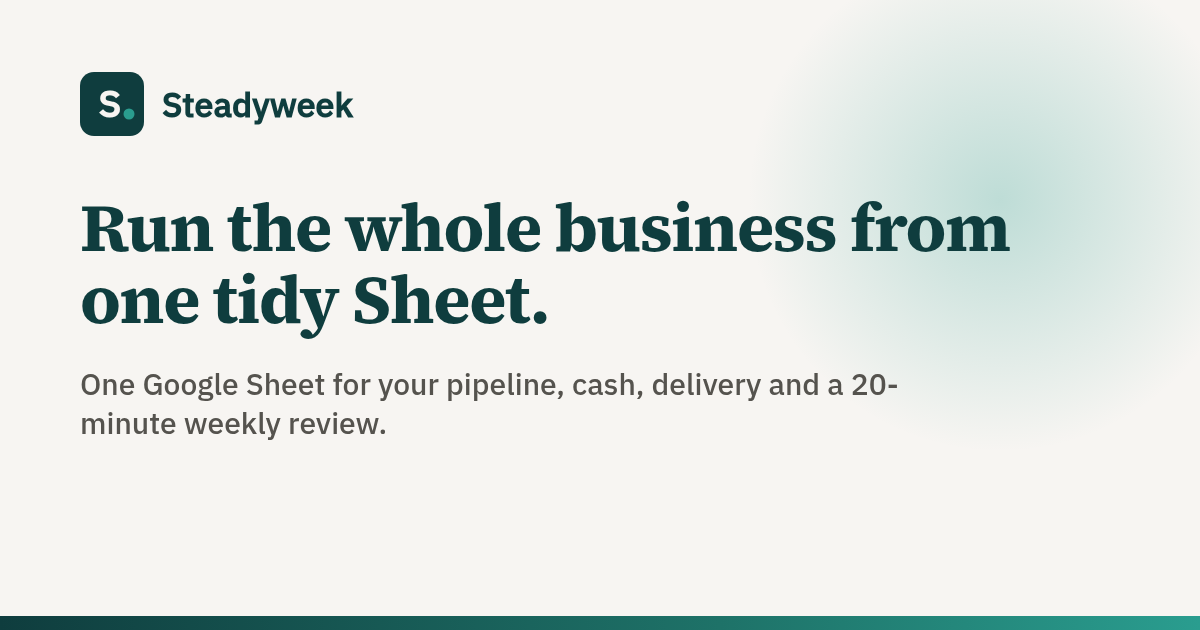
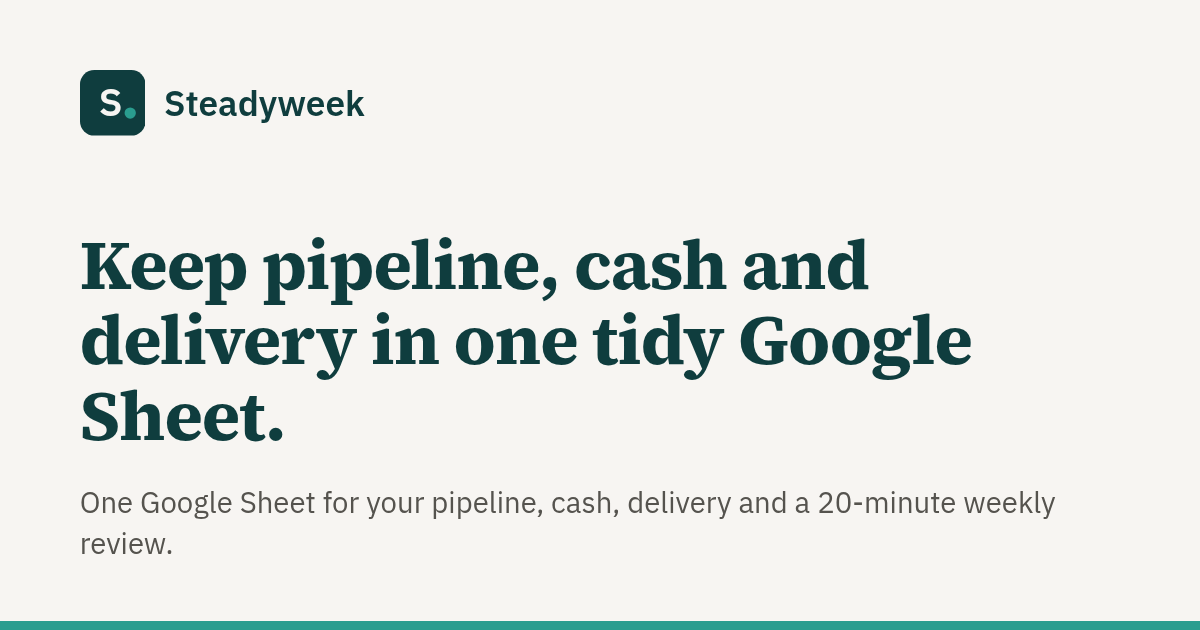
Publish site 2026-10-14 16:49 BST

diff --git a/index.html b/index.html
@@ -3,15 +3,16 @@
 <head>
   <meta charset="utf-8">
   <meta name="viewport" content="width=device-width, initial-scale=1">
-  <meta http-equiv="Content-Security-Policy" content="default-src 'self'; img-src 'self' data:; style-src 'self'; script-src 'self'; font-src 'self'; form-action 'self' mailto:; base-uri 'self'; frame-ancestors 'none'">
+  <meta http-equiv="Content-Security-Policy" content="default-src 'self'; img-src 'self' data:; style-src 'self'; script-src 'self'; font-src 'self'; connect-src 'self' https://formsubmit.co; form-action 'self'; base-uri 'self'; object-src 'none'">
   <meta name="referrer" content="strict-origin-when-cross-origin">
-  <title>Steadyweek — run your small business from one Google Sheet</title>
+  <title>Steadyweek — pipeline, cash and delivery in one Google Sheet</title>
   <meta name="description" content="One Google Sheet for your pipeline, cash, delivery and a 20-minute weekly review. Built for UK micro-businesses. No new software, no lock-in.">
   <meta name="theme-color" content="#0F3D3E">
   <meta property="og:type" content="website">
-  <meta property="og:title" content="Steadyweek — run your small business from one Google Sheet">
+  <meta property="og:title" content="Steadyweek — pipeline, cash and delivery in one Google Sheet">
   <meta property="og:description" content="One Google Sheet for your pipeline, cash, delivery and a 20-minute weekly review. Built for UK micro-businesses. No new software, no lock-in.">
   <meta property="og:image" content="https://evanturner557-del.github.io/steadyweek/assets/og.png">
+  <meta property="og:url" content="https://evanturner557-del.github.io/steadyweek/">
   <meta name="twitter:card" content="summary_large_image">
   <link rel="canonical" href="https://evanturner557-del.github.io/steadyweek/">
   <link rel="icon" href="assets/favicon.svg" type="image/svg+xml">
@@ -56,8 +57,8 @@
     <div class="container hero__grid">
       <div>
         <span class="eyebrow">For UK founders who live in spreadsheets</span>
-        <h1>Run your whole business from one tidy Google Sheet.</h1>
-        <p class="lede">Steadyweek is a ready-made <strong>Google Sheets</strong> workbook for pipeline, cash and delivery — plus a <strong>20-minute weekly review</strong> that tells you what needs you. From <strong>£49</strong>, yours to keep.</p>
+        <h1>Keep pipeline, cash and delivery in one tidy Google Sheet.</h1>
+        <p class="lede">Steadyweek is a ready-made <strong>Google Sheets</strong> workbook with a <strong>20-minute weekly review</strong> that tells you what needs you. From <strong>£49</strong>, yours to keep.</p>
         <div class="btn-row">
           <a class="btn btn--primary" href="#pricing" data-cta="hero">See the plans</a>
           <a class="btn btn--ghost" href="#how" data-cta="hero-secondary">What&#x27;s inside</a>
@@ -93,7 +94,7 @@
           <p class="price"><b>£49</b><span>one-off</span></p><ul class="checks"><li><svg aria-hidden="true"><use href="#i-check"/></svg>7-tab Steadyweek workbook (.xlsx)</li><li><svg aria-hidden="true"><use href="#i-check"/></svg>QuickStart guide (PDF)</li><li><svg aria-hidden="true"><use href="#i-check"/></svg>Yours to keep</li></ul><div class="cta-wrap"><a class="btn btn--primary btn--block" href="#contact" data-cta="enquire" data-plan="template">Ask about the Template</a><p class="sub">No payment taken yet.</p></div></article><article class="tier"><h3>Template + setup</h3><p class="tier__for">We set it up with your real data on a call.</p>
           <p class="price"><b>£149</b><span>one-off</span></p><ul class="checks"><li><svg aria-hidden="true"><use href="#i-check"/></svg>Everything in Template</li><li><svg aria-hidden="true"><use href="#i-check"/></svg>60-minute setup call</li><li><svg aria-hidden="true"><use href="#i-check"/></svg>Your pipeline and costs loaded in</li></ul><div class="cta-wrap"><a class="btn btn--ghost btn--block" href="#contact" data-cta="enquire" data-plan="setup">Ask about setup</a></div></article><article class="tier"><h3>Monthly check-in</h3><p class="tier__for">A light monthly review to keep the habit.</p>
           <p class="price"><b>£39</b><span>/ month</span></p><ul class="checks"><li><svg aria-hidden="true"><use href="#i-check"/></svg>30-minute monthly review</li><li><svg aria-hidden="true"><use href="#i-check"/></svg>Template tweaks as you grow</li><li><svg aria-hidden="true"><use href="#i-check"/></svg>Cancel any time</li></ul><div class="cta-wrap"><a class="btn btn--ghost btn--block" href="#contact" data-cta="enquire" data-plan="checkin">Ask about check-ins</a></div></article></div>
-      <div class="guarantee"><div class="icon"><svg aria-hidden="true"><use href="#i-refund"/></svg></div><p><strong>30-day refund promise.</strong> If you decide within 30 days of buying the Template or Template + setup that it isn’t for you, email us and we’ll refund what you paid. No reason needed.</p><a class="btn btn--ghost btn--sm" href="terms.html#refunds">Refund terms</a></div>
+      <div class="guarantee"><div class="icon"><svg aria-hidden="true"><use href="#i-refund"/></svg></div><p><strong>30-day refund promise.</strong> If you decide within 30 days of buying the Template or Template + setup that it isn’t for you, you can have a full refund of what you paid. No reason needed. To ask, email steadyweek@agentmail.to.</p><a class="btn btn--ghost btn--sm" href="terms.html#refunds">Refund terms</a></div>
       <p class="fineprint">Steadyweek is a planning tool, not accounting or tax software, and nothing in it is financial advice.</p>
     </div>
   </section>
@@ -101,18 +102,18 @@
     <div class="container"><div class="note-card"><div><span class="eyebrow">A straight answer</span><blockquote>“We&#x27;re new. There are no customer stories yet, and we won&#x27;t invent any. Here&#x27;s exactly what you get.”</blockquote></div><ul class="promise-list"><li><svg aria-hidden="true"><use href="#i-check"/></svg><span>Your data stays in your own Google Drive.</span></li><li><svg aria-hidden="true"><use href="#i-check"/></svg><span>No subscriptions required — the template is yours.</span></li><li><svg aria-hidden="true"><use href="#i-check"/></svg><span>Planning tool, not financial advice or accounting.</span></li><li><svg aria-hidden="true"><use href="#i-check"/></svg><span>Plain spreadsheet formulas you can read and change.</span></li></ul></div></div>
   </section>
   <section class="section section--tint" id="faq">
-    <div class="container"><div class="section-head"><span class="eyebrow">FAQ</span><h2>Common questions</h2></div><div class="faq"><details><summary>Do I need any paid software?</summary><p>No. Steadyweek is built for Google Sheets, which is free with a Google account. The file is a standard .xlsx, but we haven’t tested it in Microsoft Excel yet, so we don’t promise that it works there.</p></details><details><summary>Can you see my data?</summary><p>No. You keep the template on your own computer or in your own Google Drive. We never have access unless you share it with us for a setup call.</p></details><details><summary>Is this accounting software?</summary><p>No. It&#x27;s a planning and weekly-review tool. Keep your bookkeeping in your accounting software and your accountant in the loop.</p></details><details><summary>What if I get stuck?</summary><p>The QuickStart guide covers the basics, and the setup tier includes a live call. If a file doesn’t work as described, email us and we’ll put it right.</p></details><details><summary>Can my team use it?</summary><p>Yes. Share the Sheet with whoever needs it, using Google&#x27;s normal sharing settings.</p></details><details><summary>When can I buy it?</summary><p>We’re finishing the first version. Ordering opens at launch, and this page will be updated as soon as it does. No payment is taken today.</p></details></div></div>
+    <div class="container"><div class="section-head"><span class="eyebrow">FAQ</span><h2>Common questions</h2></div><div class="faq"><details><summary>Do I need any paid software?</summary><p>No. Steadyweek is built for Google Sheets, which is free with a Google account. The file is a standard .xlsx, but we haven’t tested it in Microsoft Excel yet, so we don’t promise that it works there.</p></details><details><summary>Can you see my data?</summary><p>No. You keep the template on your own computer or in your own Google Drive. We never have access unless you share it with us for a setup call.</p></details><details><summary>Is this accounting software?</summary><p>No. It&#x27;s a planning and weekly-review tool. Keep your bookkeeping in your accounting software and your accountant in the loop.</p></details><details><summary>What if I get stuck?</summary><p>The QuickStart guide covers the basics, and the setup tier includes a live call. If a file doesn’t work as described, you’re entitled to have it fixed or replaced, or to a refund, as set out in our terms.</p></details><details><summary>Can my team use it?</summary><p>Yes. Share the Sheet with whoever needs it, using Google&#x27;s normal sharing settings.</p></details><details><summary>When can I buy it?</summary><p>We’re finishing the first version. Ordering opens at launch, and this page will be updated as soon as it does. No payment is taken today.</p></details></div></div>
   </section>
 <section class="section" id="contact">
     <div class="container contact-grid">
       <div>
         <span class="eyebrow">Contact</span>
         <h2 class="x-s8">Questions? Email us.</h2>
-        <p class="x-s9">Ask us anything about Steadyweek and we&#x27;ll reply by email from steadyweek@agentmail.to.</p>
+        <p class="x-s9">Questions about Steadyweek are welcome at steadyweek@agentmail.to.</p>
         <ul class="contact-points"><li><span class="icon" aria-hidden="true"><svg><use href="#i-mail"/></svg></span><span><b>Email</b><a href="mailto:steadyweek@agentmail.to">steadyweek@agentmail.to</a></span></li>
-          <li><span class="icon" aria-hidden="true"><svg><use href="#i-shield"/></svg></span><span><b>Your data</b>Used only to answer you. See our <a href="privacy.html">privacy notice</a>.</span></li></ul>
+          <li><span class="icon" aria-hidden="true"><svg><use href="#i-shield"/></svg></span><span><b>Your data</b>Used only to deal with your enquiry. See our <a href="privacy.html">privacy notice</a>.</span></li></ul>
       </div>
-      <form class="form" data-contact data-email="steadyweek@agentmail.to" data-subject="Steadyweek enquiry" novalidate>
+      <form class="form" data-contact data-formsubmit="5b9f52098483a868f62fc809485ab004" data-email="steadyweek@agentmail.to" data-subject="Steadyweek enquiry" novalidate>
         <div class="row-2">
           <div class="field"><label for="f-name">Your name</label><input id="f-name" name="name" autocomplete="name" required></div>
           <div class="field"><label for="f-business">Business name</label><input id="f-business" name="business" autocomplete="organization" required></div>
@@ -122,8 +123,8 @@
           <div class="field"><label for="f-plan">Interested in</label><select id="f-plan" name="plan"><option value="">Not sure yet</option><option value="template">Template (£49)</option><option value="setup">Template + setup (£149)</option><option value="checkin">Monthly check-in (£39)</option></select></div>
         </div>
         <div class="field"><label for="f-message">Anything else?</label><textarea id="f-message" name="message"></textarea></div>
-        <p class="hint">Submitting opens your own email app with the message ready — nothing is sent until you press Send.</p>
-        <button class="btn btn--primary" type="submit">Write my email</button>
+        <p class="hint">Your message is sent to our inbox via FormSubmit (formsubmit.co), our form-delivery provider. If that fails, your own email app opens instead.</p>
+        <button class="btn btn--primary" type="submit">Send message</button>
         <p class="form-status" role="status" aria-live="polite"></p>
       </form>
     </div>

diff --git a/privacy.html b/privacy.html
@@ -3,7 +3,7 @@
 <head>
   <meta charset="utf-8">
   <meta name="viewport" content="width=device-width, initial-scale=1">
-  <meta http-equiv="Content-Security-Policy" content="default-src 'self'; img-src 'self' data:; style-src 'self'; script-src 'self'; font-src 'self'; form-action 'self' mailto:; base-uri 'self'; frame-ancestors 'none'">
+  <meta http-equiv="Content-Security-Policy" content="default-src 'self'; img-src 'self' data:; style-src 'self'; script-src 'self'; font-src 'self'; form-action 'self'; base-uri 'self'; object-src 'none'">
   <meta name="referrer" content="strict-origin-when-cross-origin">
   <title>Privacy notice — Steadyweek</title>
   <meta name="description" content="How Steadyweek handles your data: what we collect, why, how long we keep it and your rights under UK GDPR.">
@@ -12,6 +12,7 @@
   <meta property="og:title" content="Privacy notice — Steadyweek">
   <meta property="og:description" content="How Steadyweek handles your data: what we collect, why, how long we keep it and your rights under UK GDPR.">
   <meta property="og:image" content="https://evanturner557-del.github.io/steadyweek/assets/og.png">
+  <meta property="og:url" content="https://evanturner557-del.github.io/steadyweek/privacy.html">
   <meta name="twitter:card" content="summary_large_image">
   <link rel="canonical" href="https://evanturner557-del.github.io/steadyweek/privacy.html">
   <link rel="icon" href="assets/favicon.svg" type="image/svg+xml">
@@ -24,9 +25,9 @@
 <body>
 <a class="skip-link" href="#main">Skip to content</a>
 <header class="site-header"><div class="container"><a class="brand" href="./"><svg viewBox="0 0 64 64" aria-hidden="true"><rect width="64" height="64" rx="14" fill="#0F3D3E"/><text x="30" y="45" text-anchor="middle" font-family="Source Serif 4, Georgia, serif" font-weight="700" font-size="38" fill="#F7F5F2">S</text><circle cx="49" cy="42" r="5.5" fill="#2A9D8F"/></svg>Steadyweek</a><a class="btn btn--ghost btn--sm x-s1" href="./">Back to home</a></div></header>
-<main id="main" class="legal"><div class="container"><h1>Privacy notice</h1><p class="updated">Last updated 6 October 2026</p>
+<main id="main" class="legal"><div class="container"><h1>Privacy notice</h1><p class="updated">Last updated 14 October 2026</p>
 <h2>Who we are</h2>
-<p>Steadyweek is a trading name of a sole trader based in the UK. Steadyweek is a Google Sheets workspace for UK small businesses. For anything in this notice, email <a href="mailto:steadyweek@agentmail.to">steadyweek@agentmail.to</a>. We are the “controller” (the organisation responsible) for the personal data described here.</p>
+<p><span>Operated by a UK sole trader trading as Steadyweek. Contact: steadyweek@agentmail.to. Postal address available on written request.</span> Steadyweek is a Google Sheets workspace for UK small businesses. For anything in this notice, email <a href="mailto:steadyweek@agentmail.to">steadyweek@agentmail.to</a>. We are the “controller” (the organisation responsible) for the personal data described here.</p>
 <h2>What we collect</h2>
 <ul>
   <li><strong>If you email us:</strong> your name, business name, email address and your message.</li>
@@ -48,17 +49,18 @@
 <h2>Who we share it with</h2>
 <ul>
   <li>AgentMail, which hosts our email inbox;</li>
+  <li>FormSubmit (formsubmit.co), which delivers messages sent through our website contact form to our inbox;</li>
   <li>our payment provider, for payments and downloads (named here before payments open);</li>
   <li>Google, if you share your Google Sheet with us for a setup call;</li>
   <li>our website host (GitHub Pages, run by GitHub, Inc.).</li>
 </ul>
-<p>Some of these providers are based in, or use servers in, the United States. We are confirming the contract terms and the legal basis each provider uses to protect personal data sent outside the UK. You can ask us for details at any time.</p>
+<p>AgentMail, Google and GitHub are based in the United States, so personal data we share with them may be stored or processed there. <span>Google relies on the UK Extension to the EU–US Data Privacy Framework (the ‘UK–US data bridge’) for transfers from the UK (see <a href="https://policies.google.com/privacy/frameworks?hl=en-GB" rel="noopener">Google’s privacy frameworks page</a>).</span> GitHub handles our website host’s visitor logs under its own privacy statement. GitHub relies on the UK Extension to the EU–US Data Privacy Framework (the ‘UK–US data bridge’) for transfers from the UK (see <a href="https://docs.github.com/en/site-policy/privacy-policies/github-general-privacy-statement" rel="noopener">GitHub’s privacy statement</a>). We do not have a separate data processing agreement with AgentMail, Inc., which hosts our email inbox in the United States, so emails sent to us are handled under <a href="https://www.agentmail.to/legal/privacy" rel="noopener">AgentMail’s privacy notice</a>. That notice says AgentMail may use the EU Standard Contractual Clauses for international transfers, and that, without such an agreement, it may use email content to improve and train its own services. Please don’t send us sensitive personal information by email. You can ask us for details at any time.</p>
 <h2>How long we keep it</h2>
-<p>Enquiries: up to 12 months after our last contact. Customer records: for as long as tax law requires (at least 5 years after the 31 January tax-return deadline for the year concerned).</p>
+<p>Enquiries that don’t lead to an order: up to 12 months after our last contact. Order details, including anything you share with us for a setup call or check-in and our working copies, are deleted 30 days after we deliver. We keep only a basic order record (your name, email, date, what you bought and the amount) for as long as tax law requires (at least 5 years after the 31 January tax-return deadline for the year concerned).</p>
 <h2>Your rights</h2>
-<p>You can ask to see the personal data we hold about you, to correct it, to delete it, to restrict or object to how we use it, or to receive it in a portable format. Email us and we will respond within one month.</p>
+<p>You can ask to see the personal data we hold about you, to correct it, to delete it, to restrict or object to how we use it, or to receive it in a portable format. Email us to ask. Requests sent to our inbox are handled by the owner (not by automatic replies) within one month, as the law requires.</p>
 <h2>Complaints</h2>
-<p>If you are unhappy with how we have handled your personal data, please tell us first by emailing <a href="mailto:steadyweek@agentmail.to">steadyweek@agentmail.to</a> with “Data complaint” in the subject line. We will acknowledge it within 30 days, look into it without undue delay, keep you updated and tell you the outcome. You can also complain to the Information Commissioner’s Office at <a href="https://ico.org.uk/make-a-complaint/" rel="noopener">ico.org.uk/make-a-complaint</a>.</p>
+<p>If you are unhappy with how we have handled your personal data, please tell us first by emailing <a href="mailto:steadyweek@agentmail.to">steadyweek@agentmail.to</a> with “Data complaint” in the subject line. The owner will acknowledge it within 30 days, look into it without undue delay, keep you updated and tell you the outcome. You can also complain to the Information Commissioner’s Office at <a href="https://ico.org.uk/make-a-complaint/" rel="noopener">ico.org.uk/make-a-complaint</a>.</p>
 
 </div></main>
 <footer class="site-footer"><div class="container"><div class="footer-base x-s4">

diff --git a/terms.html b/terms.html
@@ -3,7 +3,7 @@
 <head>
   <meta charset="utf-8">
   <meta name="viewport" content="width=device-width, initial-scale=1">
-  <meta http-equiv="Content-Security-Policy" content="default-src 'self'; img-src 'self' data:; style-src 'self'; script-src 'self'; font-src 'self'; form-action 'self' mailto:; base-uri 'self'; frame-ancestors 'none'">
+  <meta http-equiv="Content-Security-Policy" content="default-src 'self'; img-src 'self' data:; style-src 'self'; script-src 'self'; font-src 'self'; form-action 'self'; base-uri 'self'; object-src 'none'">
   <meta name="referrer" content="strict-origin-when-cross-origin">
   <title>Terms — Steadyweek</title>
   <meta name="description" content="Terms for Steadyweek: prices, refunds, what the service is and is not, and liability.">
@@ -12,6 +12,7 @@
   <meta property="og:title" content="Terms — Steadyweek">
   <meta property="og:description" content="Terms for Steadyweek: prices, refunds, what the service is and is not, and liability.">
   <meta property="og:image" content="https://evanturner557-del.github.io/steadyweek/assets/og.png">
+  <meta property="og:url" content="https://evanturner557-del.github.io/steadyweek/terms.html">
   <meta name="twitter:card" content="summary_large_image">
   <link rel="canonical" href="https://evanturner557-del.github.io/steadyweek/terms.html">
   <link rel="icon" href="assets/favicon.svg" type="image/svg+xml">
@@ -26,7 +27,7 @@
 <header class="site-header"><div class="container"><a class="brand" href="./"><svg viewBox="0 0 64 64" aria-hidden="true"><rect width="64" height="64" rx="14" fill="#0F3D3E"/><text x="30" y="45" text-anchor="middle" font-family="Source Serif 4, Georgia, serif" font-weight="700" font-size="38" fill="#F7F5F2">S</text><circle cx="49" cy="42" r="5.5" fill="#2A9D8F"/></svg>Steadyweek</a><a class="btn btn--ghost btn--sm x-s1" href="./">Back to home</a></div></header>
 <main id="main" class="legal"><div class="container"><h1>Terms</h1><p class="updated">Last updated 6 October 2026</p>
 <h2>Who we are</h2>
-<p>Steadyweek is a trading name of a sole trader based in the UK. Email: <a href="mailto:steadyweek@agentmail.to">steadyweek@agentmail.to</a>.</p>
+<p><span>Operated by a UK sole trader trading as Steadyweek. Contact: steadyweek@agentmail.to. Postal address available on written request.</span> Email: <a href="mailto:steadyweek@agentmail.to">steadyweek@agentmail.to</a>.</p>
 <h2>Who these terms are for</h2>
 <p>Steadyweek is designed for businesses and people running a business. If you buy as a consumer (for yourself rather than your business), you also have the extra legal rights set out under “If you’re a consumer” below.</p>
 <h2>What you get</h2>
@@ -36,10 +37,10 @@
   <li><strong>Monthly check-in (£39 a month):</strong> a 30-minute monthly review and template tweaks. Paid monthly in advance. Cancel any time by email; cancellation takes effect at the end of the month you have paid for.</li>
 </ul>
 <p>The Template price does not include future updates, videos, extra guides or ongoing support, and we don’t promise to provide them. If we ever share extras like these with existing customers, they are free and optional, and we can stop at any time.</p>
-<p><strong>If something is wrong with the files:</strong> the template and guide must match this description and be of satisfactory quality and fit for purpose. If they aren’t, email <a href="mailto:steadyweek@agentmail.to">steadyweek@agentmail.to</a> and we will fix or replace them. If we can’t do that within a reasonable time and without significant inconvenience to you, we will give you a partial or full refund. This sits alongside our 30-day refund promise and your legal rights.</p>
+<p><strong>If something is wrong with the files:</strong> the template and guide must match this description and be of satisfactory quality and fit for purpose. If they aren’t, you are entitled to have them fixed or replaced; tell us at <a href="mailto:steadyweek@agentmail.to">steadyweek@agentmail.to</a>. If that can’t be done within a reasonable time and without significant inconvenience to you, you are entitled to a partial or full refund. This sits alongside our 30-day refund promise and your legal rights.</p>
 <p>Prices are in pounds sterling. Your copy of the template is yours to keep and use in your own business. Please don’t resell or share it outside your business.</p>
 <h2 id="refunds">Refunds</h2>
-<p><strong>30-day refund promise:</strong> if you decide within 30 days of buying the Template or Template + setup that Steadyweek isn’t for you, email <a href="mailto:steadyweek@agentmail.to">steadyweek@agentmail.to</a> and we will refund the full price you paid. You don’t need to give a reason. Refunds go back to the card you paid with. This promise is in addition to your legal rights.</p>
+<p><strong>30-day refund promise:</strong> if you decide within 30 days of buying the Template or Template + setup that Steadyweek isn’t for you, you can have a refund of the full price you paid; to ask, email <a href="mailto:steadyweek@agentmail.to">steadyweek@agentmail.to</a>. You don’t need to give a reason. Refunds go back to the card you paid with. This promise is in addition to your legal rights.</p>
 <h2>If you’re a consumer</h2>
 <p>If you buy as a consumer, you can cancel within 14 days of your order for any reason by emailing us or using the form below. You’ll get a refund within 14 days of telling us.</p>
 <ul>
@@ -56,7 +57,7 @@ Ordered on: ______ · Name: ______ · Address: ______ · Date: ______</p>
 <h2>Liability</h2>
 <p>Nothing in these terms limits our liability for death or personal injury caused by our negligence, for fraud, or for anything else the law does not allow us to limit. Subject to that, our total liability to you is limited to the amount you paid us for the product or service in question. If you are a business customer, we are not liable for loss of profit, revenue or business opportunity.</p>
 <h2>Complaints, changes and law</h2>
-<p>If something goes wrong, email <a href="mailto:steadyweek@agentmail.to">steadyweek@agentmail.to</a> and we will try to put it right quickly. We may update these terms; the version shown when you buy applies to your order. These terms are governed by the law of England and Wales. If you are a consumer living elsewhere in the UK, you can also rely on the consumer protections where you live and bring a claim in your local courts.</p>
+<p>If something goes wrong, please tell us at <a href="mailto:steadyweek@agentmail.to">steadyweek@agentmail.to</a>. We may update these terms; the version shown when you buy applies to your order. These terms are governed by the law of England and Wales. If you are a consumer living elsewhere in the UK, you can also rely on the consumer protections where you live and bring a claim in your local courts.</p>
 
 </div></main>
 <footer class="site-footer"><div class="container"><div class="footer-base x-s4">

diff --git a/_shared/kit.js b/_shared/kit.js
@@ -69,6 +69,24 @@
     form.addEventListener("submit", function (e) {
       e.preventDefault();
       if (!form.reportValidity()) return;
+      // 2026-10-14: if data-formsubmit is set, deliver via FormSubmit.co straight to the brand inbox; mailto stays as fallback.
+      var fsTok = form.getAttribute("data-formsubmit");
+      if (fsTok && !form.__fsFallback && window.fetch) {
+        var fd = new FormData(form), payload = {}, st = form.querySelector("[role=status]");
+        fd.forEach(function (v, k) { if (k !== "consent") payload[k] = String(v); });
+        payload._subject = (form.getAttribute("data-subject") || "Enquiry") + (payload.business ? " — " + payload.business : "");
+        if (payload.email) payload._replyto = payload.email;
+        payload._captcha = "false"; payload._template = "table";
+        fetch("https://formsubmit.co/ajax/" + fsTok, { method: "POST", headers: { "Content-Type": "application/json", "Accept": "application/json" }, body: JSON.stringify(payload) })
+          .then(function (r) { return r.json(); })
+          .then(function (j) {
+            if (String(j.success) !== "true") throw new Error("fs");
+            if (st) { st.textContent = "Thanks" + (payload.name ? ", " + payload.name.trim().split(" ")[0] : "") + " — your message has been sent. We reply by email."; st.classList.add("is-visible"); }
+            track("contact_sent", { plan: payload.plan || null }); form.reset();
+          })
+          .catch(function () { form.__fsFallback = true; if (st) { st.textContent = "Sending didn't work — opening your email app instead."; st.classList.add("is-visible"); } form.requestSubmit ? form.requestSubmit() : form.dispatchEvent(new Event("submit", { cancelable: true })); });
+        return;
+      }
       var to = form.getAttribute("data-email") || cfg.contactEmail;
       var data = new FormData(form);
       var name = (data.get("name") || "").toString().trim();

diff --git a/404.html b/404.html
@@ -3,7 +3,7 @@
 <head>
   <meta charset="utf-8">
   <meta name="viewport" content="width=device-width, initial-scale=1">
-  <meta http-equiv="Content-Security-Policy" content="default-src 'self'; img-src 'self' data:; style-src 'self'; script-src 'self'; font-src 'self'; form-action 'self' mailto:; base-uri 'self'; frame-ancestors 'none'">
+  <meta http-equiv="Content-Security-Policy" content="default-src 'self'; img-src 'self' data:; style-src 'self'; script-src 'self'; font-src 'self'; form-action 'self'; base-uri 'self'; object-src 'none'">
   <meta name="referrer" content="strict-origin-when-cross-origin">
   <title>Page not found — Steadyweek</title>
   <meta name="description" content="This page could not be found. Head back to the Steadyweek home page.">
@@ -12,6 +12,7 @@
   <meta property="og:title" content="Page not found — Steadyweek">
   <meta property="og:description" content="This page could not be found. Head back to the Steadyweek home page.">
   <meta property="og:image" content="https://evanturner557-del.github.io/steadyweek/assets/og.png">
+  <meta property="og:url" content="https://evanturner557-del.github.io/steadyweek/404.html">
   <meta name="twitter:card" content="summary_large_image">
   <link rel="icon" href="assets/favicon.svg" type="image/svg+xml">
   <link rel="stylesheet" href="_shared/kit.css">

diff --git a/_shared/kit.css b/_shared/kit.css
@@ -323,3 +323,5 @@ html[data-paused="true"] [data-cta="checkout"] { pointer-events: none; opacity: 
 .launch-facts li { display: flex; gap: .7rem; align-items: flex-start; font-size: .9375rem; color: var(--text); background: var(--bg); border-radius: 12px; padding: .85rem .9rem; }
 .launch-facts .icon { width: 34px; height: 34px; border-radius: 10px; margin: 0; flex: none; }
 .launch-facts .icon svg { width: 18px; height: 18px; }
+
+.section--ink a:not(.btn){color:#fff;text-decoration:underline}
